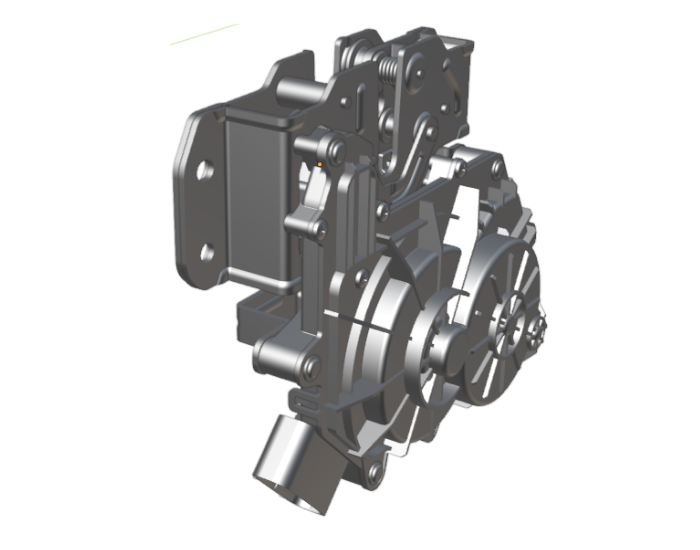
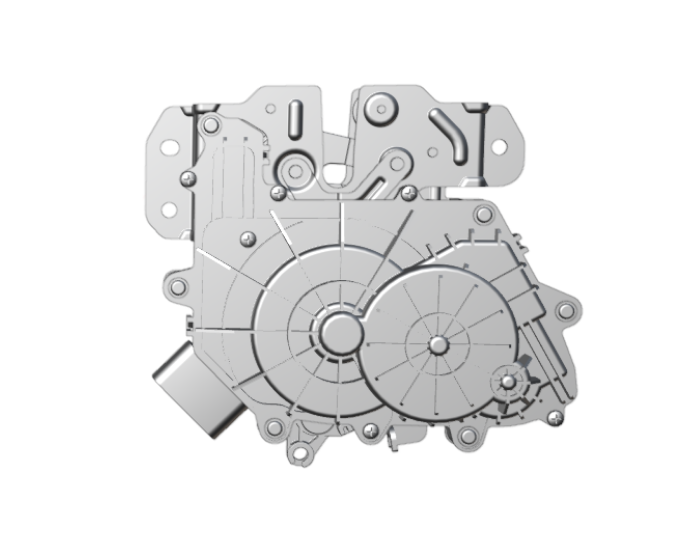
고객요구사항 반영.

diff --git a/src/components/products/LatchingSystems.tsx b/src/components/products/LatchingSystems.tsx
@@ -201,7 +201,7 @@ export default function LatchingSystems() {
                         <div className="products-area">
                             <div className="products-image-area">
                                 <Image src="/images/sub/products/products-01-06.png" alt="Plastic (Case) Type" width={361} height={545}/>
-                                <p>STANDARD TYPE</p>
+                                <p>HOOD LATCH</p>
                             </div>
                             <div className="products-text-area">
                                 The Front End Module (FEM) is installed on the vehicle&#39;s
@@ -298,8 +298,8 @@ export default function LatchingSystems() {
                         <h4>Pick-up Latch / Quarter Storage Latch</h4>
                         <div className="products-area">
                             <div className="products-image-area">
-                                <Image src="/images/sub/products/products-01-13.png" alt="Plastic (Case) Type" width={361} height={545}/>
-                                <p>Quarter Storage Latch</p>
+                                <Image src="/images/sub/products/products-01-13-01.png" alt="Plastic (Case) Type" width={361} height={545}/>
+                                <p>Pick-up Latch</p>
                             </div>
                             <div className="products-text-area">
                                 <dl>
@@ -320,9 +320,9 @@ export default function LatchingSystems() {
                         <ul>
                             <li>
                                 <p className="image-area">
-                                    <Image src="/images/sub/products/new-image-comming.png" alt="LUXURY TYPE" width={651} height={212}/>
+                                    <Image src="/images/sub/products/products-01-13-02.png" alt="LUXURY TYPE" width={701} height={312}/>
                                 </p>
-                                <p className="text-area">PICKUP LATCH</p>
+                                <p className="text-area">PICK-UP LATCH</p>
                             </li>
                             <li>
                                 <p className="image-area">

diff --git a/src/components/common/MainMenu.tsx b/src/components/common/MainMenu.tsx
@@ -76,7 +76,7 @@ export default function MainMenu({headerLeave, language}: Props): JSX.Element {
                     <Link href="/investment/financial" onMouseOver={() => handleMouseOver(5)}>{language.header_7}</Link>
                     <ul>
                         <li><Link href="/investment/financial">{language.header_7_1}</Link></li>
-                        {/* <li><Link href="/investment/dart">{language.header_7_2}</Link></li> */}
+                        <li><Link href="/investment/dart">{language.header_7_2}</Link></li>
                     </ul>
                 </li>
                 <li className={activeMenu === 6 && !headerLeave ? 'on' : ''}>
